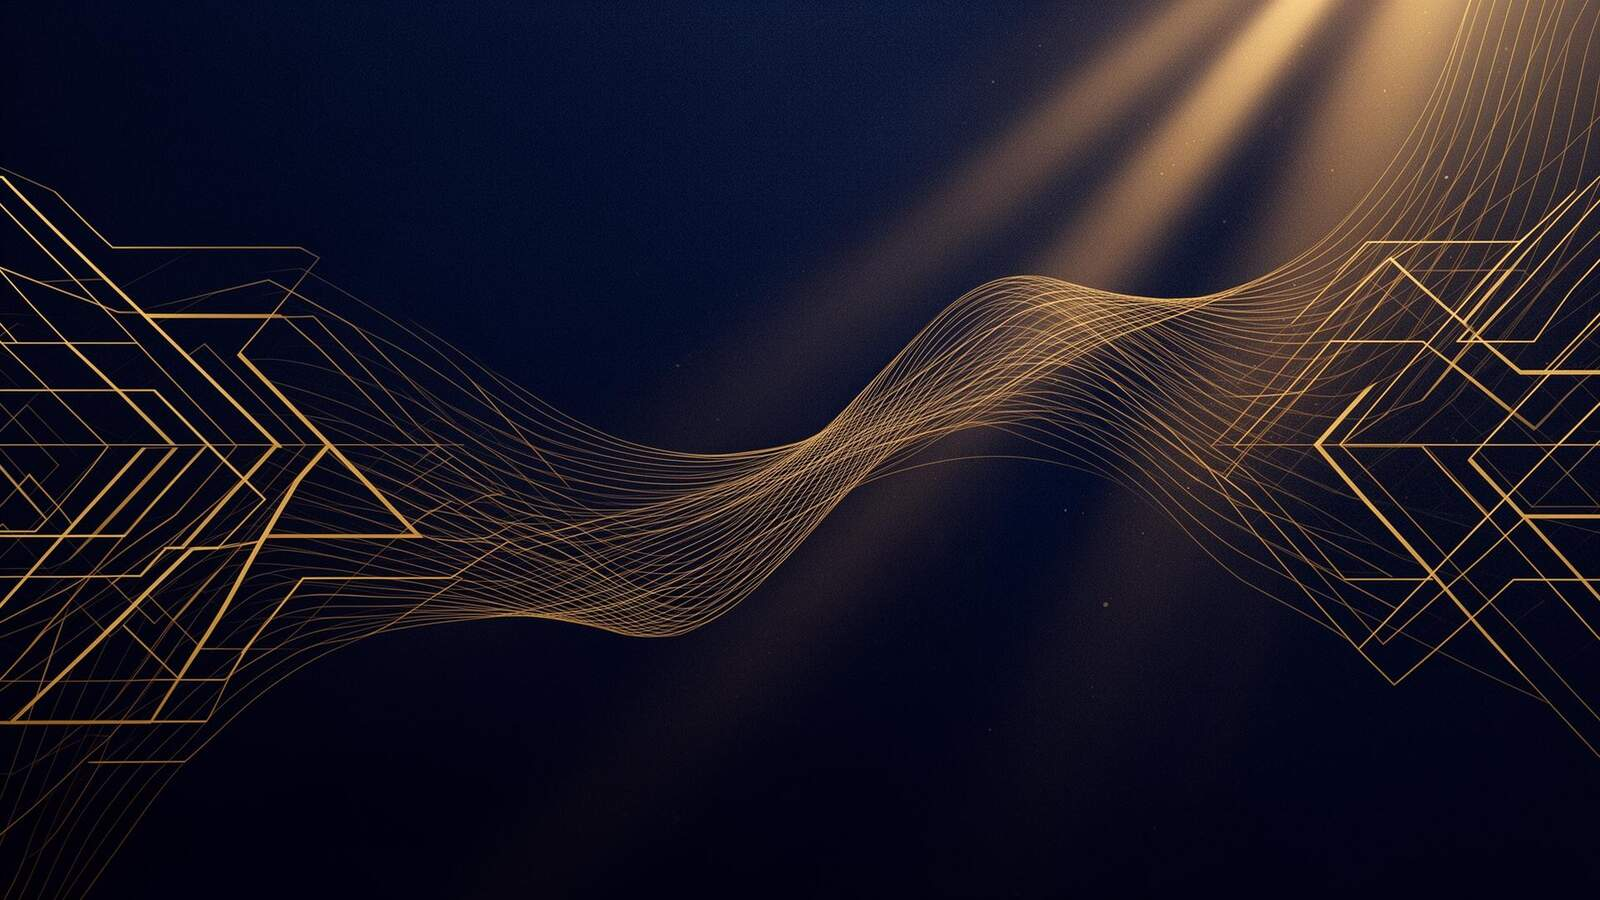
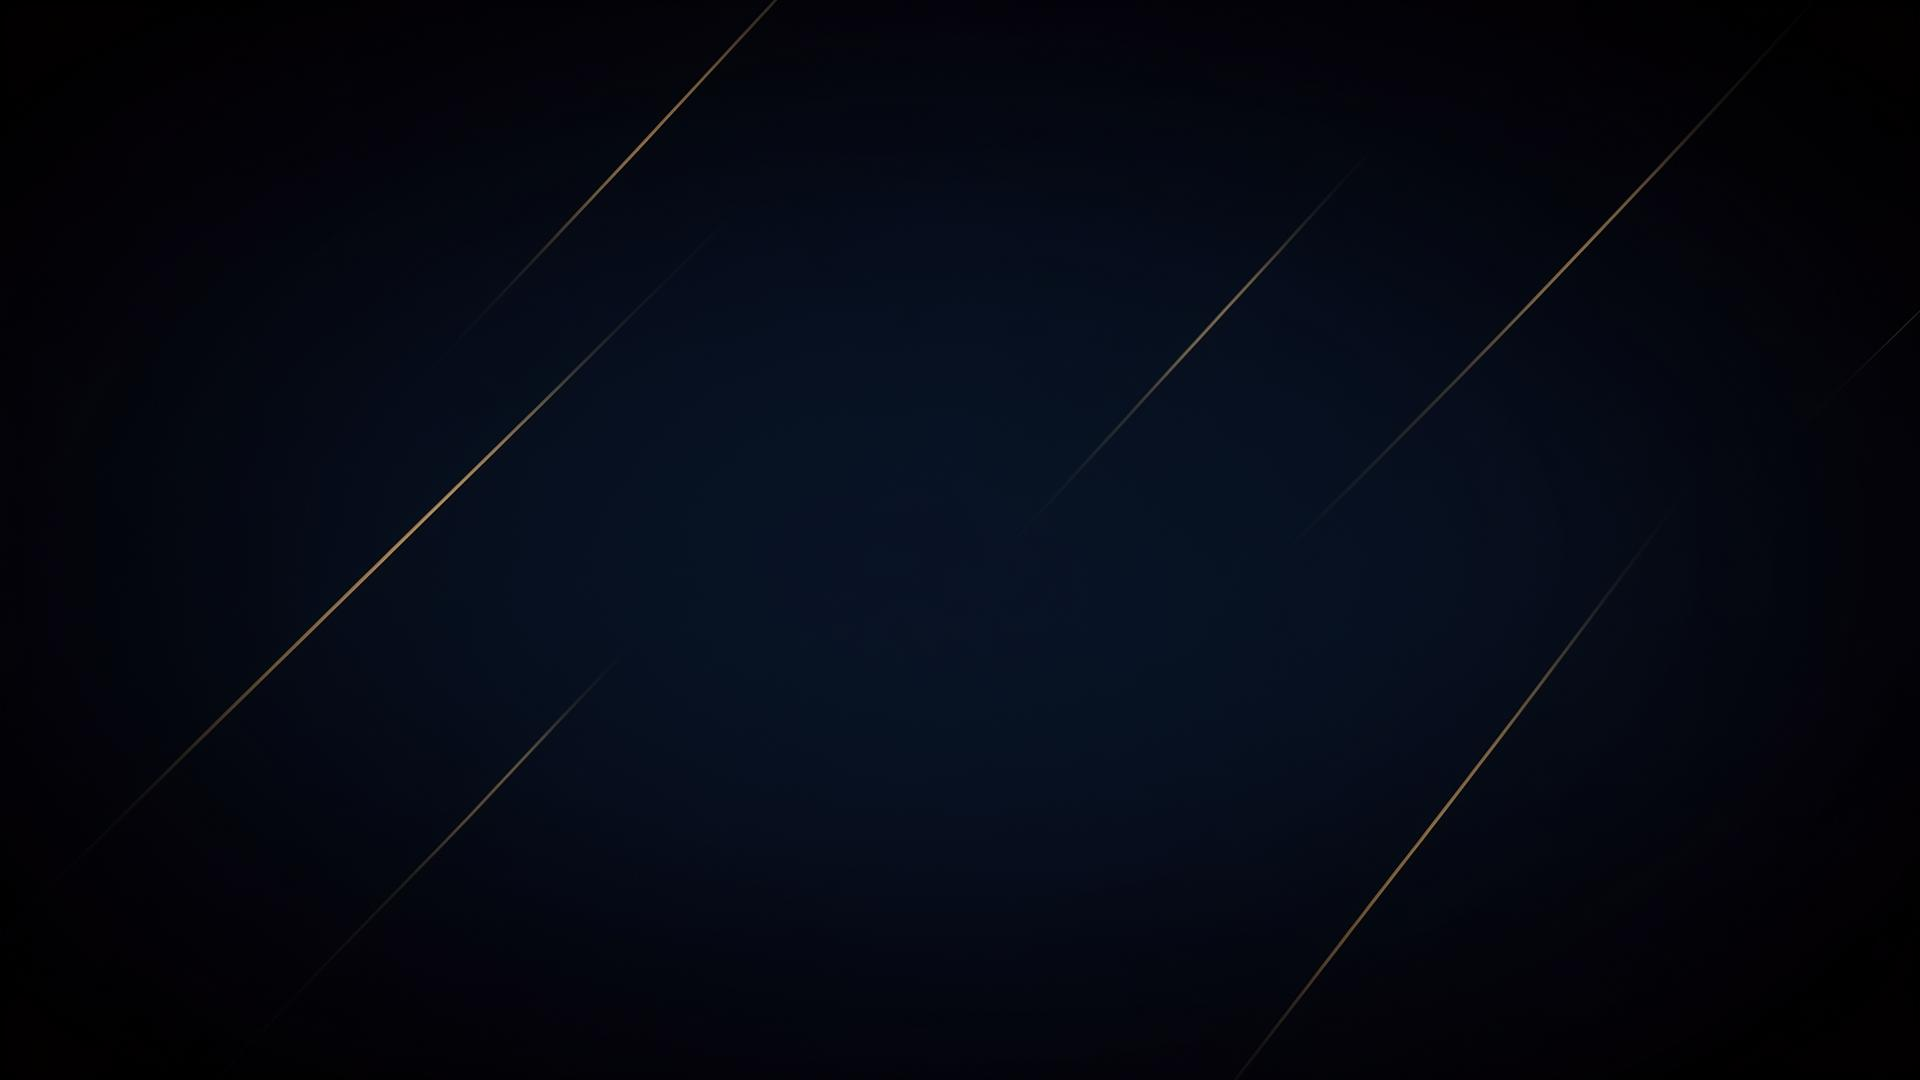
Changes

diff --git a/.lovable/plan.md b/.lovable/plan.md
@@ -1,34 +1,17 @@
-## Home Hero Cleanup
+## Lighter Hero Background
 
-Tighten the home page hero in `src/pages/Index.tsx` by removing redundant content. No copy rewrites, no layout restructure — just targeted removals.
+Generate a new hero background image with the same navy + gold-line motif as today, but far fewer lines and more negative space, then swap it in.
 
-### Changes
+### Steps
 
-1. **Remove the eyebrow line** above the H1:
-   - "ex-Salesforce · ServiceNow · Lumen Technologies"
-   - Reason: the logo strip already communicates this visually.
-
-2. **Remove the secondary CTA** in the button row:
-   - "See How I Work" button (keeps the primary "Book a Discovery Call").
-   - The button row collapses to a single primary action.
-
-3. **Remove the credentials row** under the headshot:
-   - "15+ Years · Salesforce · ServiceNow · Lumen"
-   - Reason: fully redundant with the logo strip directly above it.
-
-### Kept as-is
-
-- H1 and subhead copy
-- Reassurance microcopy ("Free 30-minute discovery call…")
-- Audience line ("For revenue and partnership leaders…")
-- Headshot
-- Desktop "Experience Built At" logo strip under the headshot
-- Mobile-only logo strip at the bottom of the hero
+1. Generate `public/hero-bg.jpg` replacement using `imagegen` with a 16:9 prompt: deep navy background (#1B2A4A), only 4–6 long, thin, very faint gold diagonal lines scattered across the frame with lots of empty space, subtle vignette, abstract — no text, no people, no dense grids.
+2. Save the new image to `public/hero-bg.jpg` (overwriting the current one). Same path means no code changes required in `src/pages/Index.tsx`.
+3. QA: view the generated image to confirm it reads as "sparse" vs. the current cluttered version. If too busy, regenerate with stricter constraints (fewer lines, more negative space).
 
 ### Files touched
 
-- `src/pages/Index.tsx` — hero `<section>` only (roughly lines 119–181 and the credentials block on lines 170–181).
+- `public/hero-bg.jpg` — replaced in place.
 
-### Expected outcome
+### Not changing
 
-Shorter, more focused hero. One headline, one subhead, one CTA, one reassurance line, one audience line, headshot + logos. Removes three redundant Salesforce/ServiceNow/Lumen mentions down to one (the logo strip).
+- Hero layout, copy, overlay opacity, or any code in `Index.tsx`.
